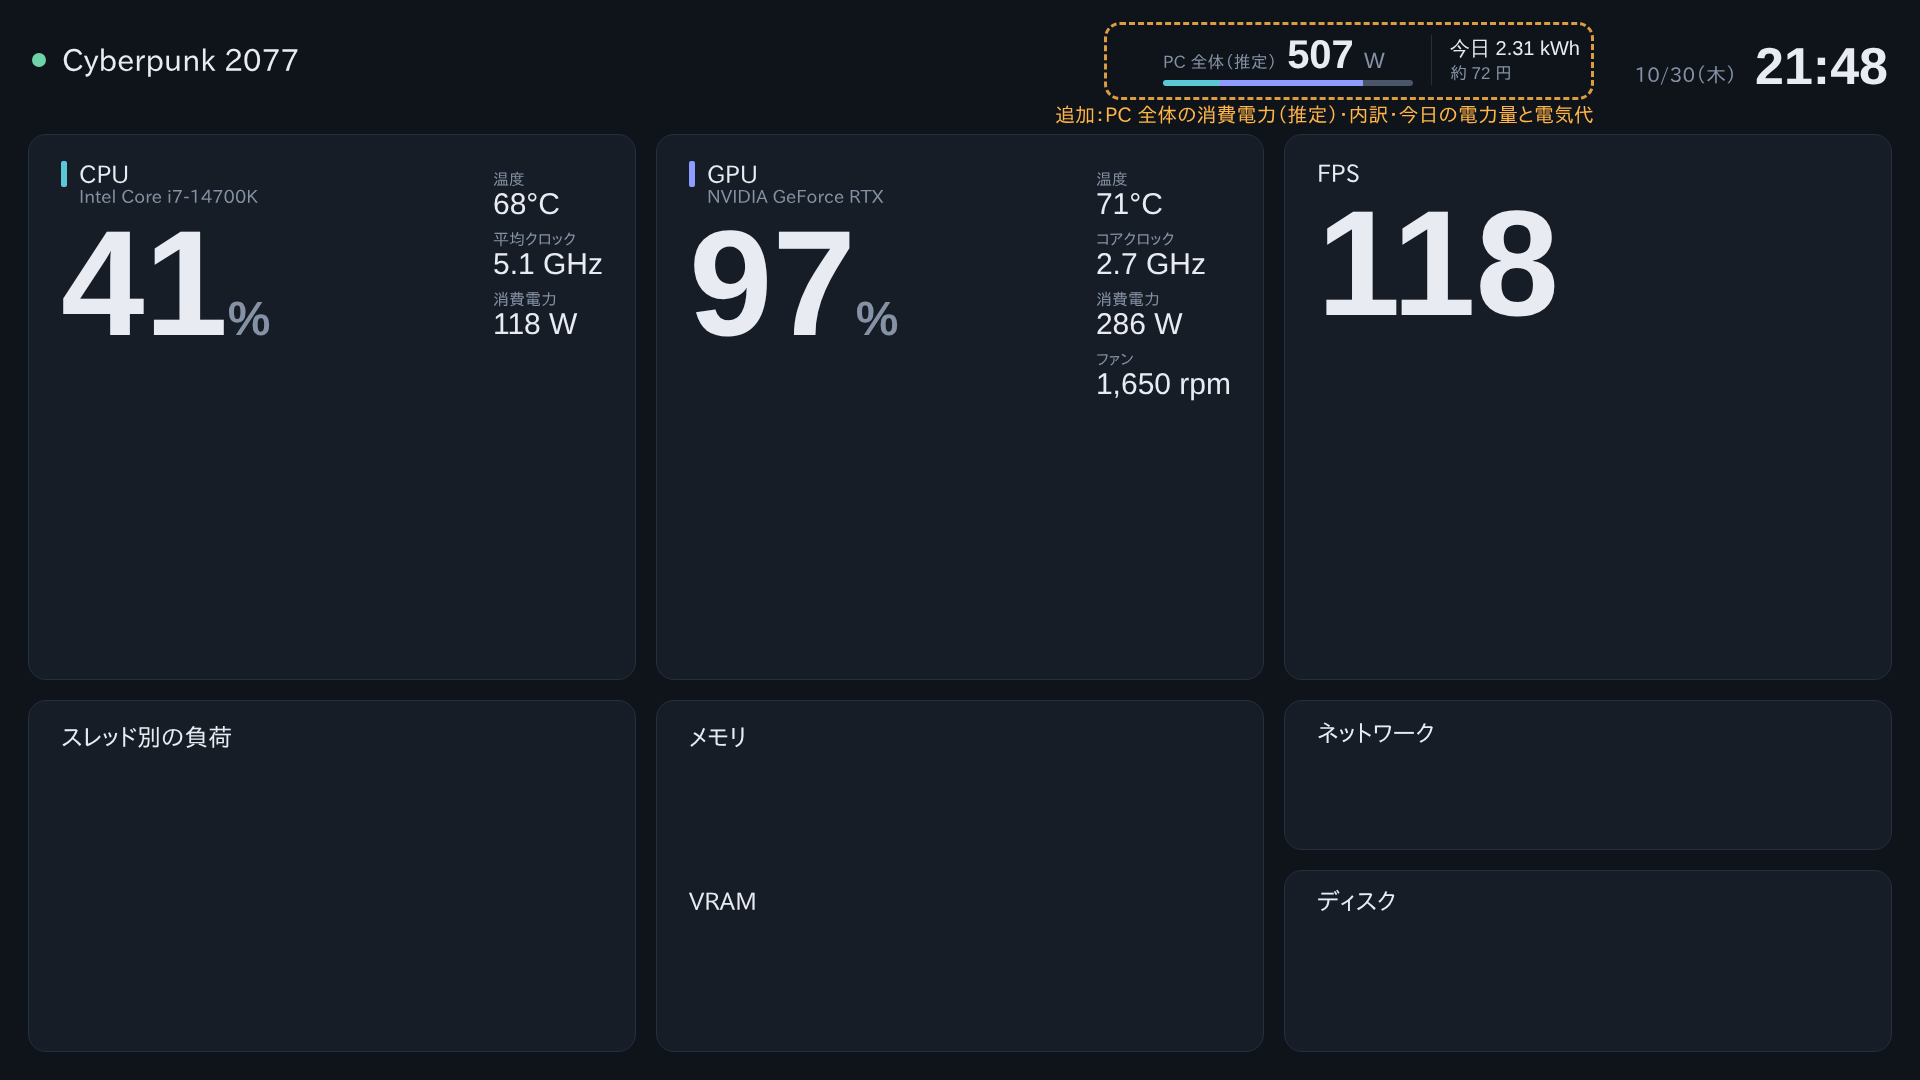
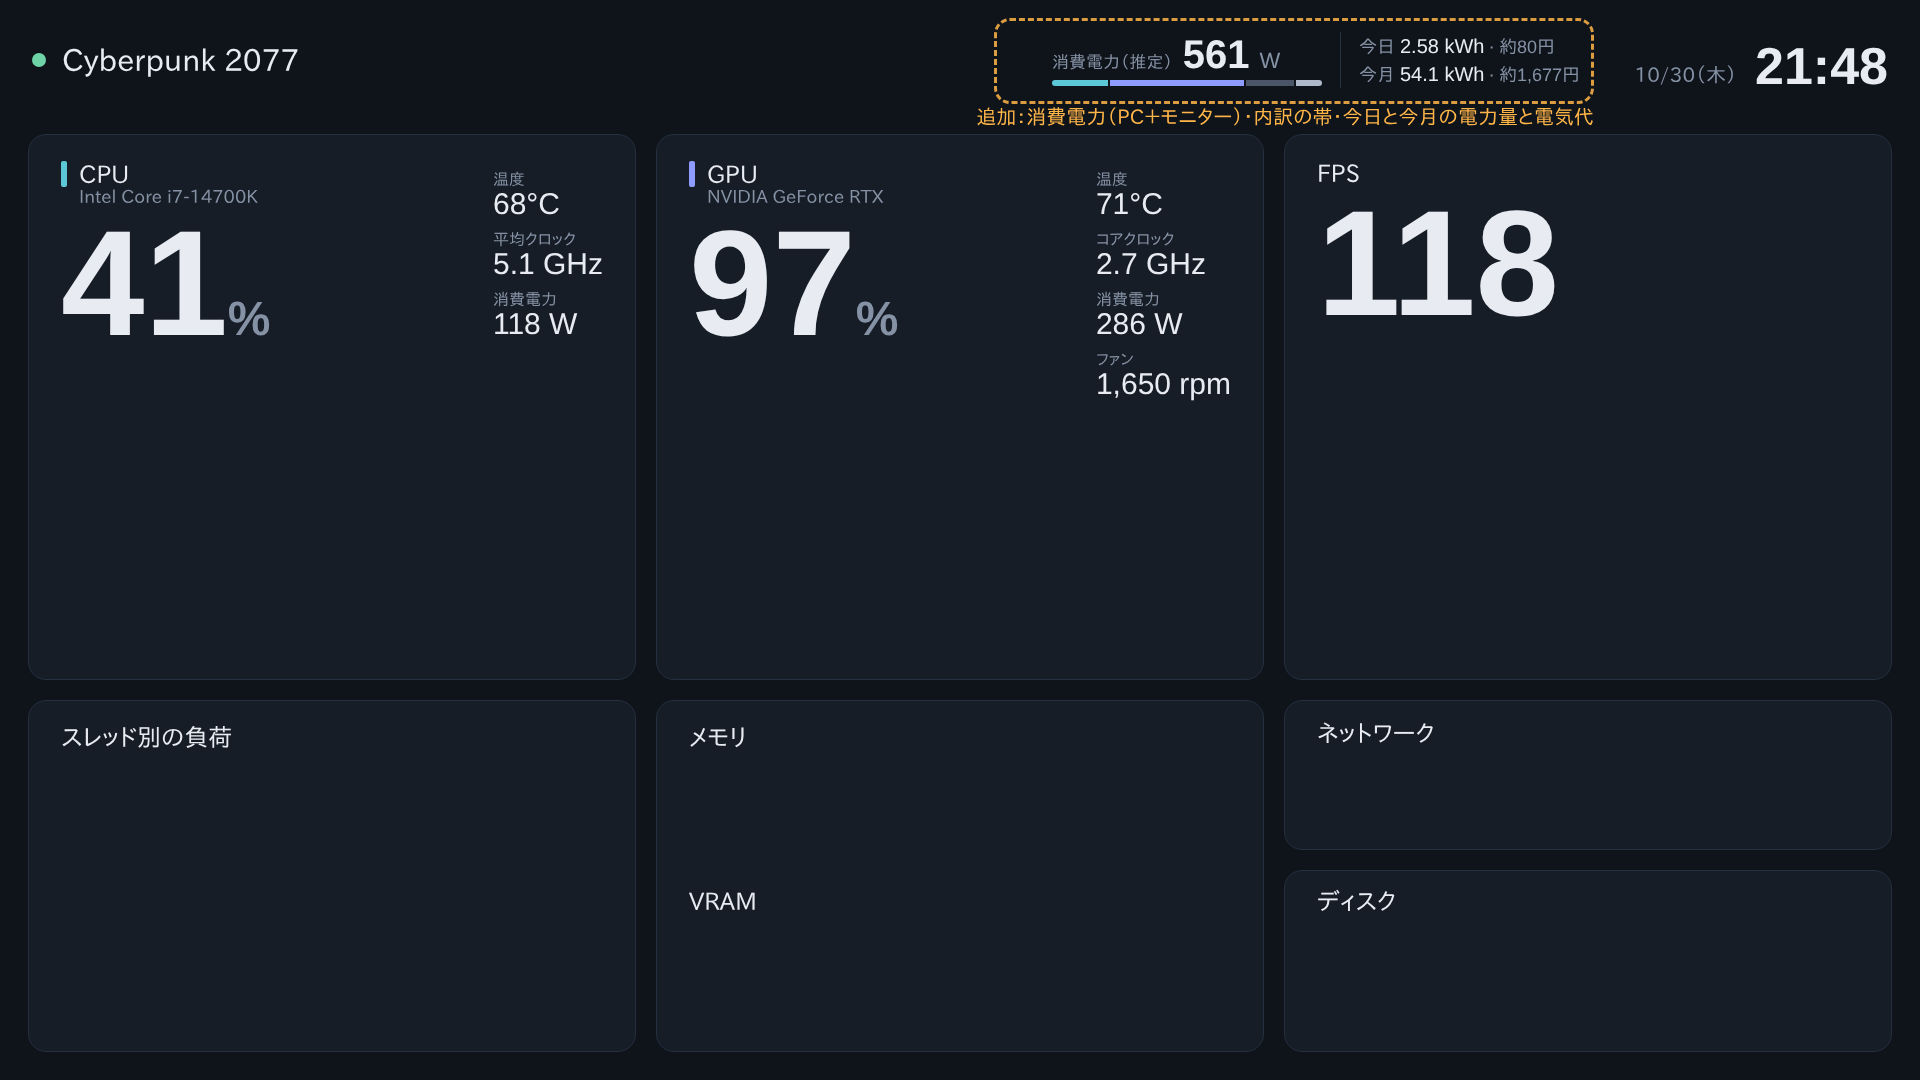
消費電力モックアップを標準・計器盤に変更、今月とモニターを追加
Claude-Session: https://claude.ai/code/session_014Pc8XdTdWEi4cLaJktqksd

Changed region(s): [[0.5, 0.0, 0.8438, 0.1222]]

diff --git a/mockups/power-gauge.html b/mockups/power-gauge.html
@@ -1,0 +1,70 @@
+<!doctype html>
+<html lang="ja"><head><meta charset="utf-8">
+<style>
+*{box-sizing:border-box;margin:0;padding:0}
+body{width:1920px;height:1080px;overflow:hidden;font-family:"Yu Gothic UI",sans-serif;color:#EEF2F8;position:relative;
+ background:radial-gradient(ellipse 70% 80% at 50% 45%,#16202C,#0A0E14)}
+.num{font-family:Bahnschrift,sans-serif;font-variant-numeric:tabular-nums}
+.abs{position:absolute}
+.dim{color:#7F8DA3}
+.chip{display:inline-flex;align-items:center;height:42px;padding:0 20px;border-radius:21px;border:1px solid rgba(184,224,106,.7);background:rgba(118,185,0,.16);color:#B8E06A;font-size:22px;margin-right:12px}
+.new{position:absolute;border:3px dashed rgba(255,181,71,.8);border-radius:14px}
+.newlabel{position:absolute;left:112px;top:812px;color:#FFB547;font-size:18px}
+#threads{position:absolute;left:130px;top:666px;width:480px}
+.bars{display:flex;align-items:flex-end;height:64px;margin-top:10px}
+.b{width:13px;height:64px;background:rgba(255,255,255,.1);margin-right:3px;position:relative}
+.b i{position:absolute;left:0;right:0;bottom:0;display:block}
+.grp{display:flex}
+.lab{display:flex;margin-top:6px;font-size:15px;color:#8592A5;font-weight:600}
+.lab div{border-top:1.5px solid #8592A5;text-align:center;padding-top:2px}
+</style></head><body>
+<svg class="abs" style="left:0;top:0" width="1920" height="1080">
+ <defs><filter id="g"><feGaussianBlur stdDeviation="7"/></filter></defs>
+ <!-- CPU r=225 c=370,448 -->
+ <g fill="none" stroke-linecap="round">
+  <path d="M211,607 A225,225 0 1 1 529,607" stroke="rgba(255,255,255,.08)" stroke-width="14"/>
+  <path d="M233,585 A194,194 0 1 1 507,585" stroke="rgba(255,255,255,.06)" stroke-width="5"/>
+  <path d="M233,585 A194,194 0 0 1 336,257" stroke="#8FA0B8" stroke-width="5"/>
+  <path d="M211,607 A225,225 0 0 1 370,223" stroke="#5CC8D7" stroke-width="14" filter="url(#g)" opacity=".7"/>
+  <path d="M211,607 A225,225 0 0 1 370,223" stroke="#5CC8D7" stroke-width="14"/>
+  <!-- FPS r=295 c=960,424 -->
+  <path d="M751,633 A295,295 0 1 1 1169,633" stroke="rgba(255,255,255,.08)" stroke-width="16"/>
+  <path d="M751,633 A295,295 0 1 1 1240,333" stroke="#F2F5FA" stroke-width="16" filter="url(#g)" opacity=".6"/>
+  <path d="M751,633 A295,295 0 1 1 1240,333" stroke="#F2F5FA" stroke-width="16"/>
+  <!-- GPU c=1550,448 -->
+  <path d="M1391,607 A225,225 0 1 1 1709,607" stroke="rgba(255,255,255,.08)" stroke-width="14"/>
+  <path d="M1391,607 A225,225 0 1 1 1764,380" stroke="#8E9CFF" stroke-width="14" filter="url(#g)" opacity=".7"/>
+  <path d="M1391,607 A225,225 0 1 1 1764,380" stroke="#8E9CFF" stroke-width="14"/>
+ </g>
+</svg>
+<div class="abs num" style="right:120px;top:40px;font-size:48px;font-weight:600">21:48</div>
+<!-- ★追加：消費電力（時計の左） -->
+<div class="abs" style="right:290px;top:36px;display:flex;align-items:center;gap:18px">
+  <div>
+    <div style="display:flex;align-items:baseline;gap:10px"><span class="dim" style="font-size:17px">消費電力（推定）</span>
+      <span class="num" style="font-size:40px;font-weight:600;line-height:1">561</span><span class="num dim" style="font-size:22px">W</span></div>
+    <div style="display:flex;width:270px;height:6px;border-radius:3px;overflow:hidden;margin-top:6px;gap:2px">
+      <div style="width:21%;background:#5CC8D7"></div><div style="width:51%;background:#8E9CFF"></div><div style="width:18%;background:#4A5668"></div><div style="width:10%;background:#AEB9CA"></div></div>
+  </div>
+  <div style="border-left:1px solid rgba(255,255,255,.1);padding-left:18px;line-height:1.4;font-size:18px">
+    <div><span class="dim">今日</span> <span class="num" style="font-size:20px">2.58 kWh</span> <span class="dim">· 約<span class="num">80</span>円</span></div>
+    <div><span class="dim">今月</span> <span class="num" style="font-size:20px">54.1 kWh</span> <span class="dim">· 約<span class="num">1,677</span>円</span></div>
+  </div>
+</div>
+<div class="new" style="right:276px;top:26px;width:600px;height:84px"></div>
+<div class="abs" style="right:276px;top:114px;color:#FFB547;font-size:18px">追加：消費電力（PC＋モニター）・内訳の帯・今日と今月</div>
+<div class="abs" style="left:120px;top:51px"><span class="chip num">Hardware: Independent Flip</span></div>
+
+<div class="abs" style="left:115px;top:330px;width:510px;text-align:center"><div class="dim" style="font-size:29px">CPU</div>
+ <div class="num" style="font-size:150px;font-weight:700;line-height:1">38<span class="dim" style="font-size:46px">%</span></div>
+ <div class="num" style="font-size:29px;color:#AEB9CA">68°C · 5.3 GHz</div></div>
+<div class="abs" style="left:635px;top:270px;width:650px;text-align:center"><div class="dim" style="font-size:38px">GameTitle</div>
+ <div class="num" style="font-size:200px;font-weight:700;line-height:1">142<span class="dim" style="font-size:60px">fps</span></div>
+ <div class="num" style="font-size:38px;color:#AEB9CA">1% Low 118 · 7.0 ms</div></div>
+<div class="abs" style="left:1295px;top:330px;width:510px;text-align:center"><div class="dim" style="font-size:29px">GPU</div>
+ <div class="num" style="font-size:150px;font-weight:700;line-height:1">91<span class="dim" style="font-size:46px">%</span></div>
+ <div class="num" style="font-size:29px;color:#AEB9CA">71°C · 284 W</div></div>
+
+<div class="abs" style="left:120px;top:842px;width:1680px;height:1px;background:rgba(255,255,255,.08)"></div>
+<div class="abs dim" style="left:120px;top:700px;font-size:20px">（メーターの下と下段は今のまま）</div>
+</body></html>

diff --git a/mockups/power-settings.html b/mockups/power-settings.html
@@ -3,7 +3,7 @@
 <!-- 消費電力（推定）：設定画面に「消費電力」ページを追加。起動時に構成を自動で調べて表示 -->
 <style>
 *{box-sizing:border-box;margin:0;padding:0}
-body{width:1100px;height:760px;overflow:hidden;background:#0F141B;font-family:"Yu Gothic UI","IPAPGothic",sans-serif;color:#E8ECF2;font-size:15px;border:1px solid #2A3646}
+body{width:1100px;height:820px;overflow:hidden;background:#0F141B;font-family:"Yu Gothic UI","IPAPGothic",sans-serif;color:#E8ECF2;font-size:15px;border:1px solid #2A3646}
 .num{font-family:Bahnschrift,"DejaVu Sans Condensed",sans-serif}
 .dim{color:#8592A5}
 .nav{position:absolute;left:0;top:44px;width:230px;bottom:0;padding:16px 14px;border-right:1px solid #243040}
@@ -11,7 +11,7 @@ body{width:1100px;height:760px;overflow:hidden;background:#0F141B;font-family:"Y
 .nav .on{background:#223042}
 .main{position:absolute;left:230px;top:44px;right:0;bottom:0;padding:26px 36px}
 table{width:100%;border-collapse:collapse;margin-top:10px}
-td{padding:8px 6px;border-bottom:1px solid #243040}
+td{padding:6px 6px;border-bottom:1px solid #243040}
 td:last-child{text-align:right}
 .tag{display:inline-block;font-size:12px;padding:1px 8px;border-radius:10px;margin-left:8px}
 .real{background:#1A5CC8D7;color:#5CC8D7;border:1px solid #5CC8D7}
@@ -24,7 +24,7 @@ td:last-child{text-align:right}
 <div class="nav"><div>表示</div><div>オーロラ</div><div>警告の目安</div><div class="on">● 消費電力</div><div>情報</div><div>Twitch</div><div>YouTube</div></div>
 <div class="main">
   <div style="font-size:24px;font-weight:600">消費電力</div>
-  <div class="dim" style="margin-top:4px">PC 全体の消費電力を推定します。CPU と GPU はセンサーの実測、ほかは見つかった部品から見積もります（モニターは含みません）</div>
+  <div class="dim" style="margin-top:4px">PC 全体の消費電力を推定します。CPU と GPU はセンサーの実測、ほかは見つかった部品から見積もります</div>
 
   <div style="display:flex;justify-content:space-between;align-items:flex-end;margin-top:18px">
     <div style="font-weight:600">見つかった構成</div><div class="btn">構成を読み直す</div>
@@ -36,10 +36,13 @@ td:last-child{text-align:right}
     <tr><td class="dim">メモリ</td><td>DDR5 16 GB × 2 枚<span class="tag est">見積もり</span></td><td class="num">8 W</td></tr>
     <tr><td class="dim">ストレージ</td><td>NVMe SSD × 2、HDD × 1<span class="tag est">見積もり・使用中は増える</span></td><td class="num">14 W</td></tr>
     <tr><td class="dim">ファン・ポンプ</td><td>5 個（回転数から）<span class="tag est">見積もり</span></td><td class="num">9 W</td></tr>
+    <tr><td class="dim">モニター 1</td><td>LG 27GR95QE（27 型・240Hz）<span class="tag est">見積もり・消灯中は 0.5 W</span></td><td class="num">32 W</td></tr>
+    <tr><td class="dim">モニター 2</td><td>DELL P2422H（24 型・60Hz）<span class="tag est">見積もり</span></td><td class="num">18 W</td></tr>
     <tr><td class="dim">その他</td><td>USB 機器など（固定値）</td><td class="num">5 W</td></tr>
   </table>
 
-  <div style="font-weight:600;margin-top:20px">電源（自動では分かりません）</div>
+  <div class="row" style="margin-top:6px"><div>モニターを合計に含める<div class="dim" style="font-size:13px">数字をクリックすると、モニターごとの W 数を自分で直せます</div></div><div style="width:44px;height:22px;border-radius:11px;background:#5CC8D7;position:relative"><div style="position:absolute;right:3px;top:3px;width:16px;height:16px;border-radius:8px;background:#0F141B"></div></div></div>
+  <div style="font-weight:600;margin-top:14px">電源（自動では分かりません）</div>
   <div class="row"><div>電源の容量</div><div><span class="box num">850</span> W</div></div>
   <div class="row"><div>80 PLUS の等級<div class="dim" style="font-size:13px">効率から、コンセント側の電力を出します</div></div><div class="box" style="min-width:140px;text-align:left">Gold　▾</div></div>
   <div class="row"><div>補正<div class="dim" style="font-size:13px">ワットチェッカーで測った値とずれるときに足し引き</div></div><div><span class="box num">+0</span> W</div></div>

diff --git a/mockups/power-classic.html b/mockups/power-classic.html
@@ -19,25 +19,25 @@ body{width:1920px;height:1080px;overflow:hidden;background:#0F141B;font-family:"
   <div style="font-size:30px;font-weight:600">Cyberpunk 2077</div>
 </div>
 
-<!-- ★追加：PC 全体の消費電力（推定） -->
-<div style="position:absolute;right:340px;top:30px;height:60px;display:flex;align-items:center;gap:18px">
+<!-- ★追加：PC 全体＋モニターの消費電力（推定） -->
+<div style="position:absolute;right:340px;top:26px;height:68px;display:flex;align-items:center;gap:18px">
   <div>
     <div style="display:flex;align-items:baseline;gap:10px">
-      <span style="font-size:17px" class="dim">PC 全体（推定）</span>
-      <span class="num" style="font-size:40px;font-weight:600;line-height:1">507</span><span class="num dim" style="font-size:22px">W</span>
+      <span style="font-size:17px" class="dim">消費電力（推定）</span>
+      <span class="num" style="font-size:40px;font-weight:600;line-height:1">561</span><span class="num dim" style="font-size:22px">W</span>
     </div>
-    <!-- 内訳：CPU / GPU / その他 -->
-    <div style="display:flex;width:250px;height:6px;border-radius:3px;overflow:hidden;margin-top:6px">
-      <div style="width:23%;background:#5CC8D7"></div><div style="width:57%;background:#8E9CFF"></div><div style="width:20%;background:#4A5668"></div>
+    <!-- 内訳：CPU / GPU / その他 / モニター -->
+    <div style="display:flex;width:270px;height:6px;border-radius:3px;overflow:hidden;margin-top:6px;gap:2px">
+      <div style="width:21%;background:#5CC8D7"></div><div style="width:51%;background:#8E9CFF"></div><div style="width:18%;background:#4A5668"></div><div style="width:10%;background:#AEB9CA"></div>
     </div>
   </div>
-  <div style="border-left:1px solid #243040;padding-left:18px;line-height:1.35">
-    <div class="num" style="font-size:20px">今日 2.31 kWh</div>
-    <div class="dim" style="font-size:17px">約 <span class="num">72</span> 円</div>
+  <div style="border-left:1px solid #243040;padding-left:18px;line-height:1.4;font-size:18px">
+    <div><span class="dim">今日</span> <span class="num" style="font-size:20px">2.58 kWh</span> <span class="dim">· 約<span class="num">80</span>円</span></div>
+    <div><span class="dim">今月</span> <span class="num" style="font-size:20px">54.1 kWh</span> <span class="dim">· 約<span class="num">1,677</span>円</span></div>
   </div>
 </div>
-<div class="new" style="right:326px;top:22px;width:490px;height:78px"></div>
-<div class="newlabel" style="right:326px;top:104px">追加：PC 全体の消費電力（推定）・内訳・今日の電力量と電気代</div>
+<div class="new" style="right:326px;top:18px;width:600px;height:86px"></div>
+<div class="newlabel" style="right:326px;top:106px">追加：消費電力（PC＋モニター）・内訳の帯・今日と今月の電力量と電気代</div>
 
 <div style="position:absolute;right:32px;top:28px;height:64px;display:flex;align-items:flex-end">
   <span class="dim" style="font-size:20px;margin:0 18px 8px 0">10/30（木）</span>
